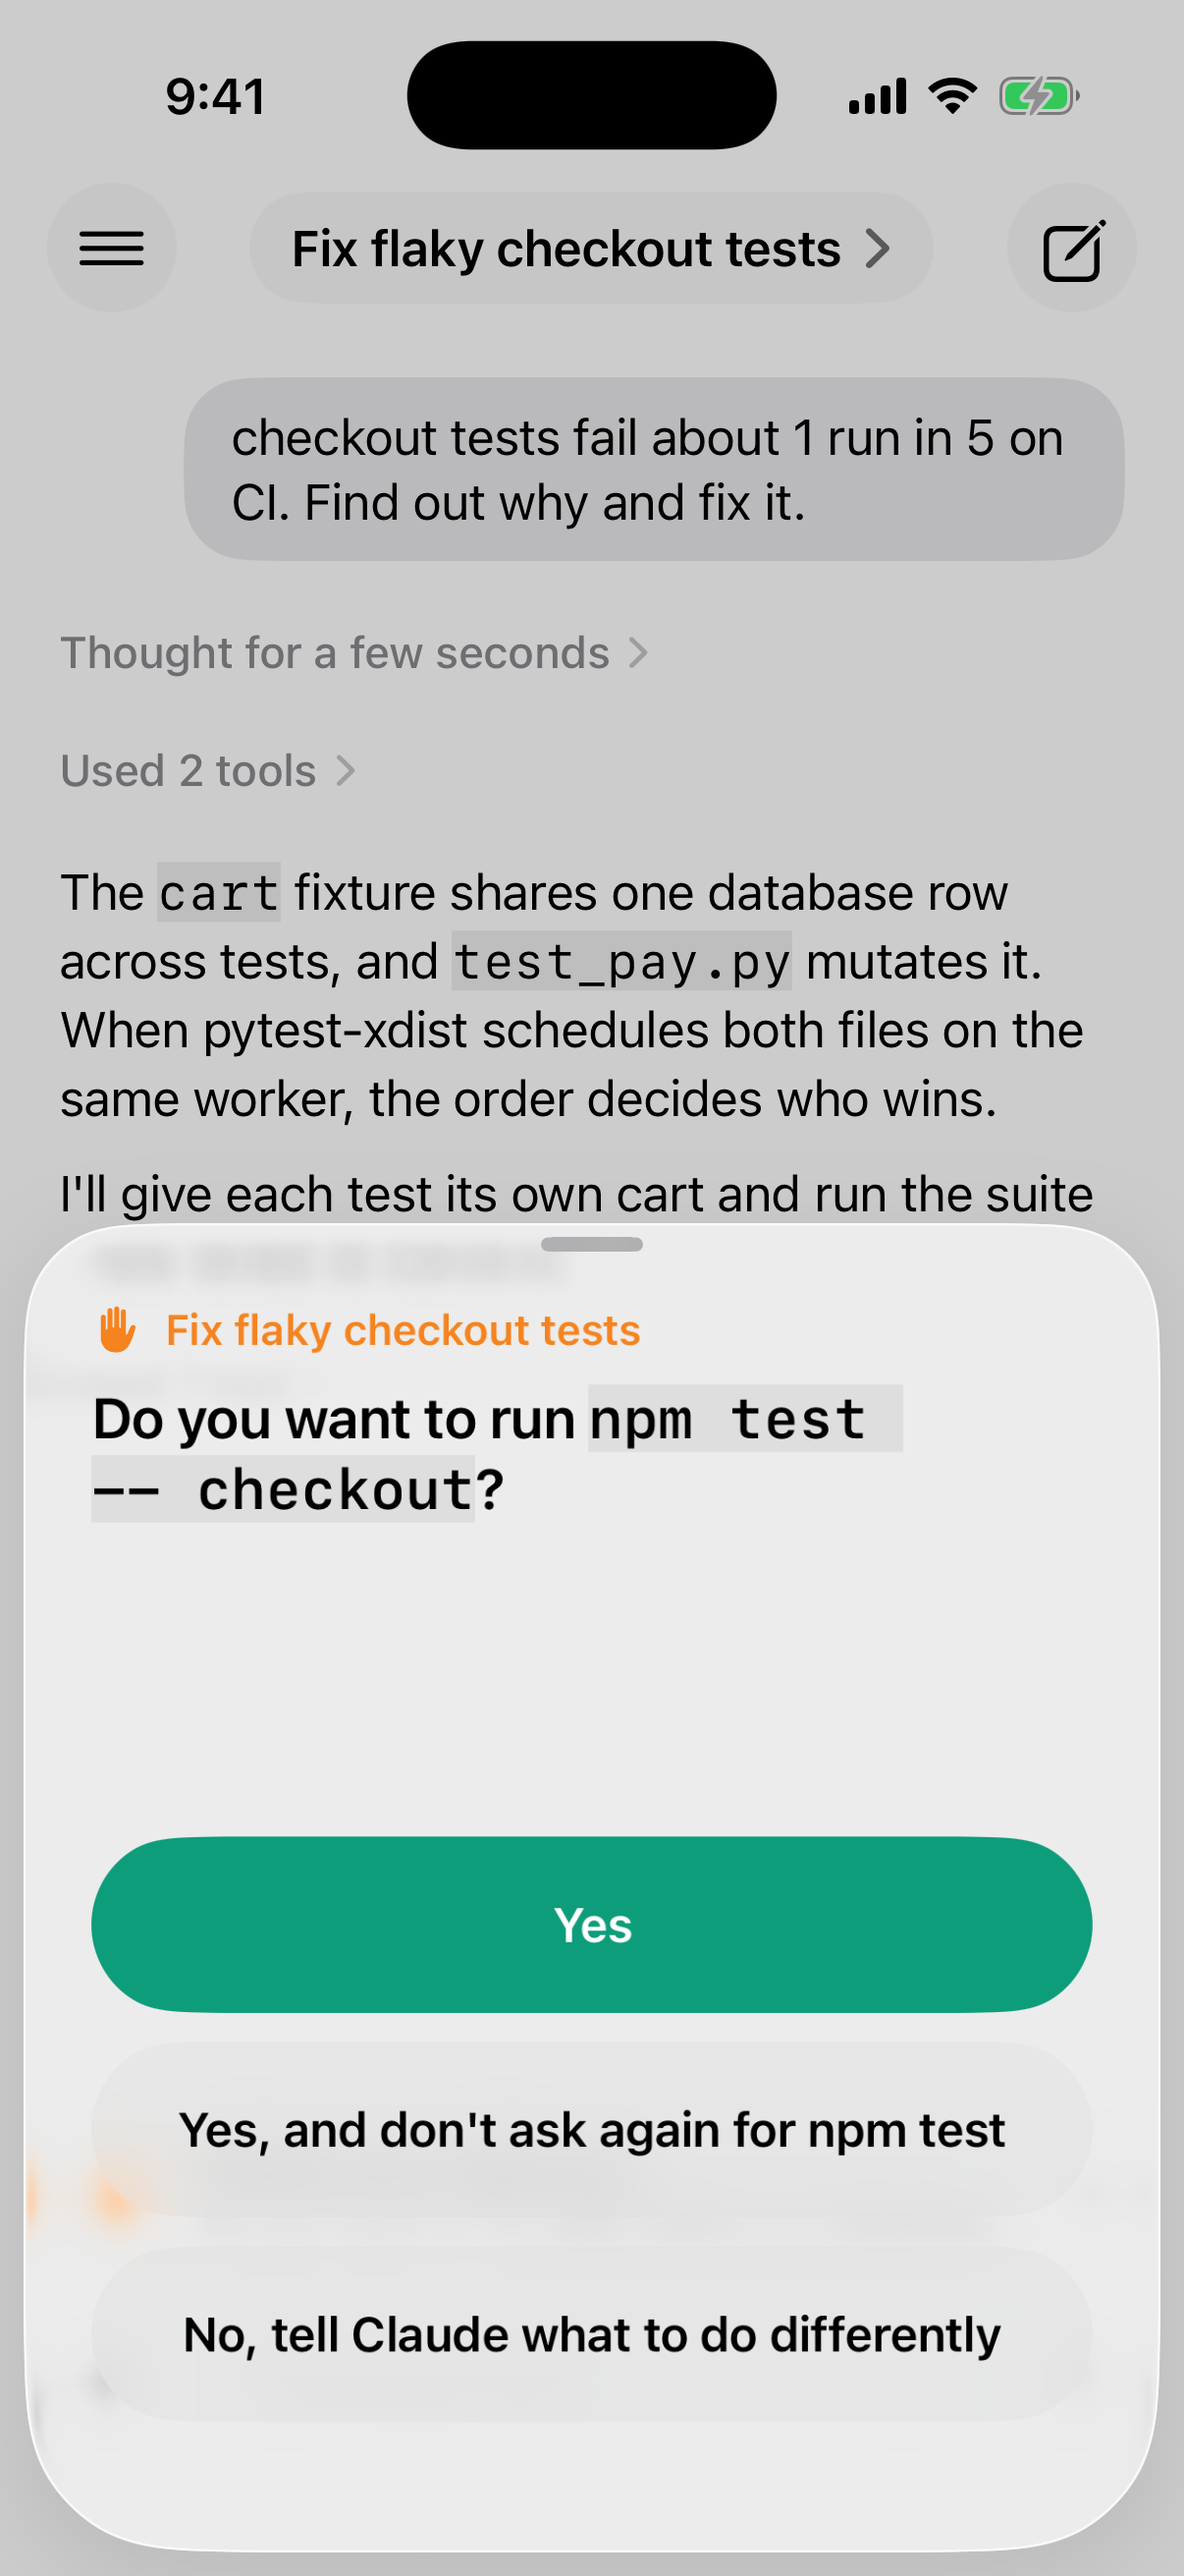
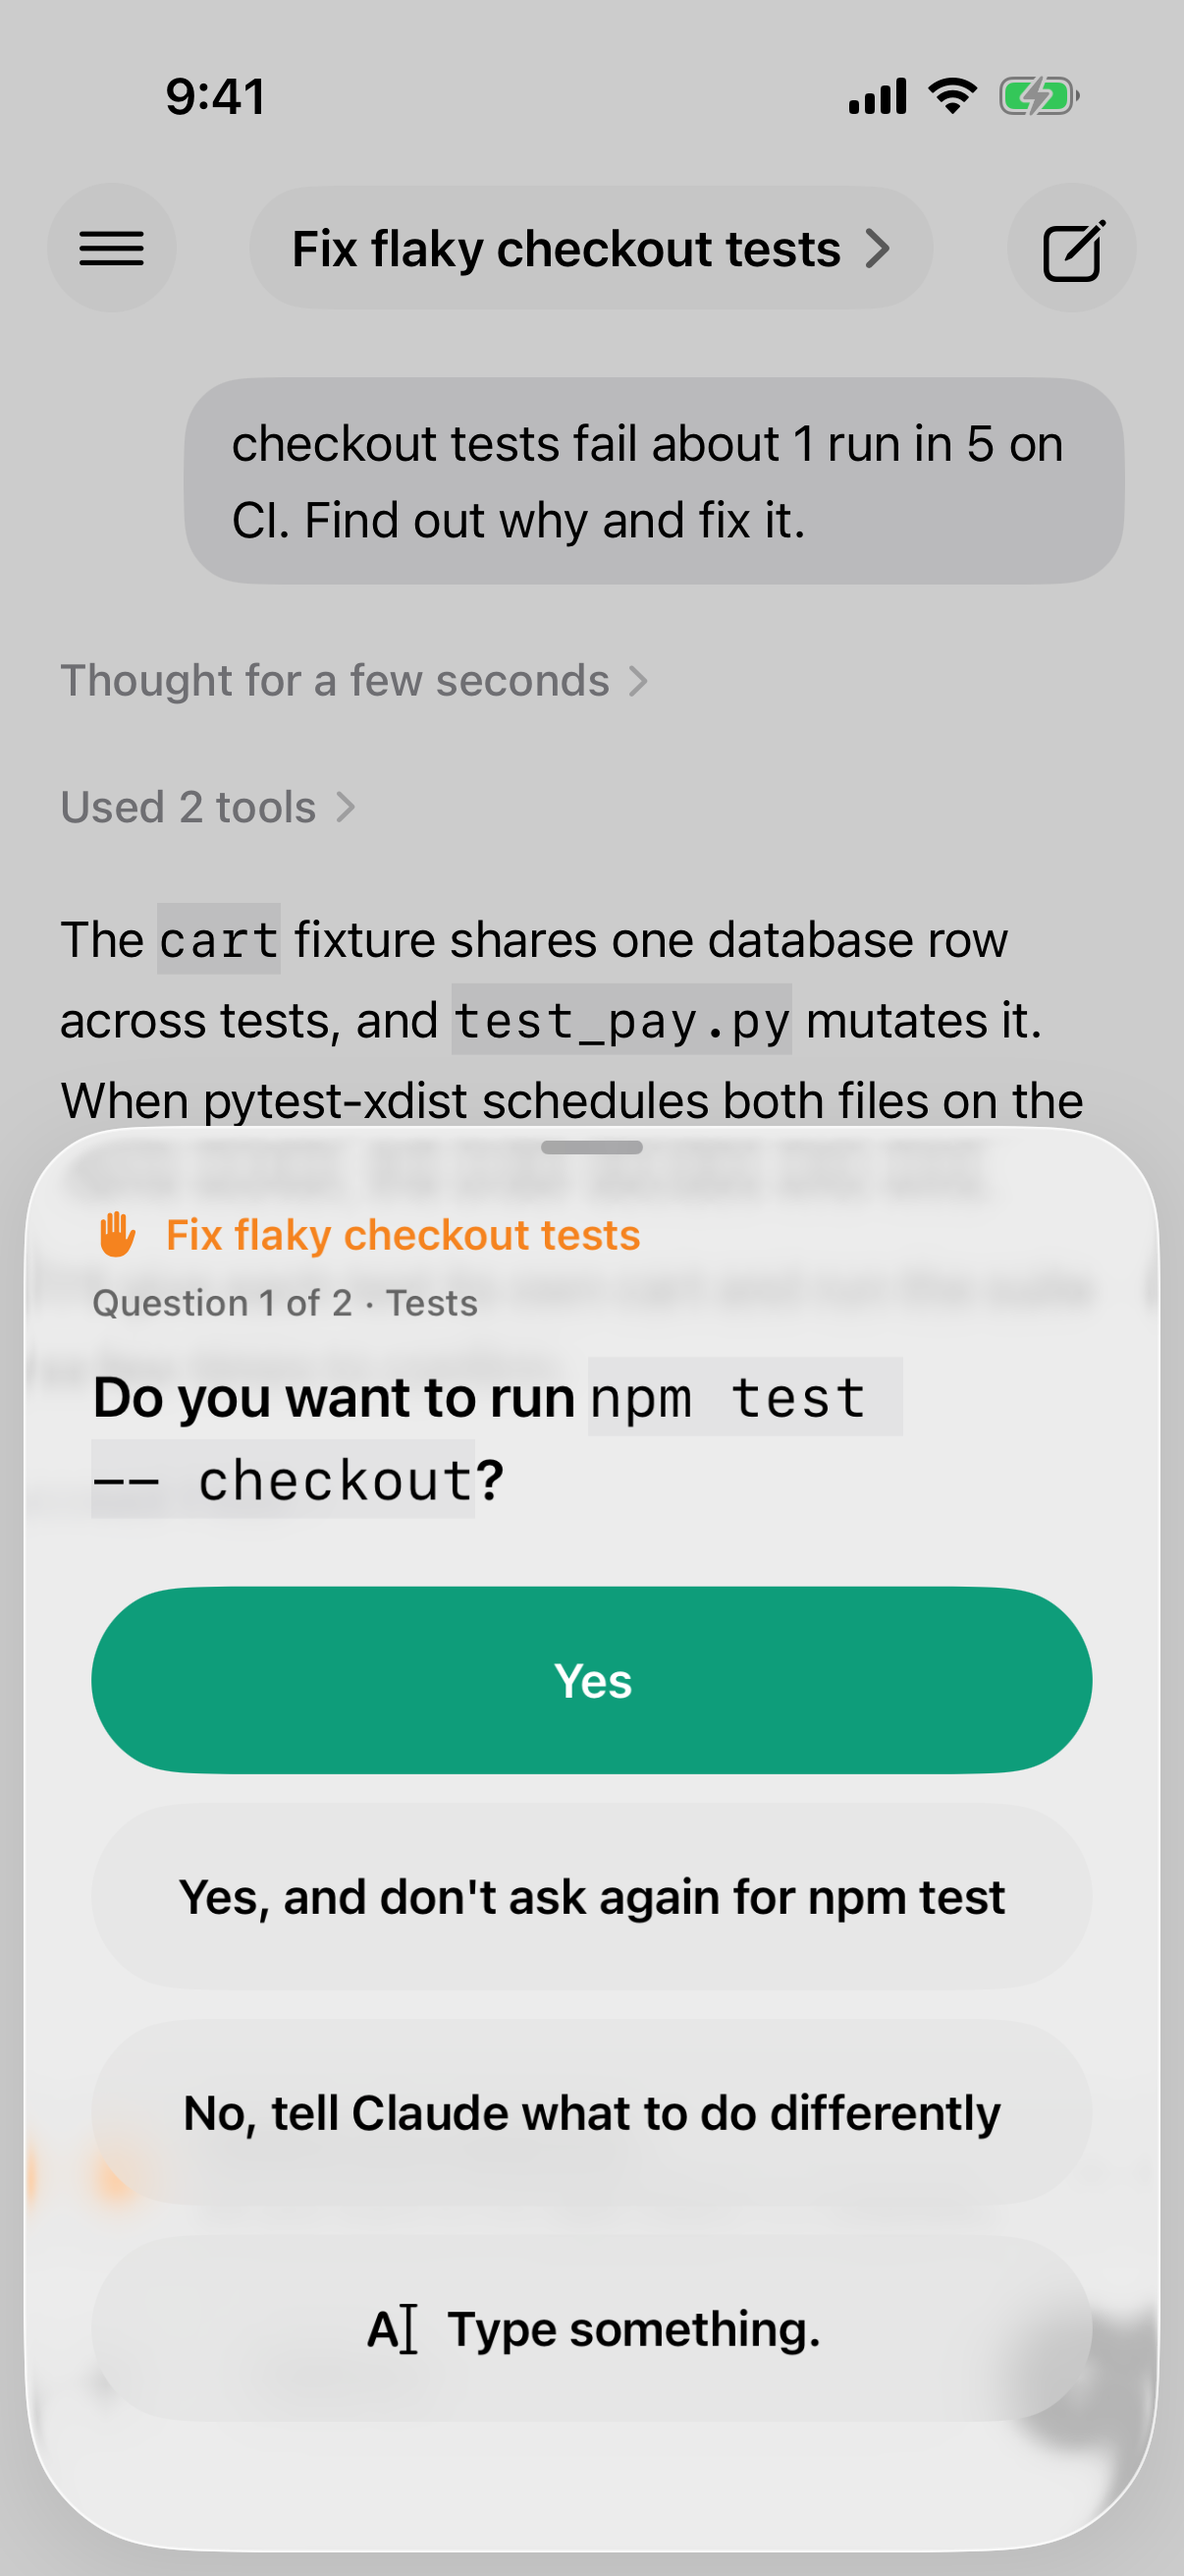
docs: iOS round 1 report and approval screenshots
Claude-Session: https://claude.ai/code/session_01Q4qo2QabVUAvi2YgczSwpD

diff --git a/docs/tasks/ios-report.md b/docs/tasks/ios-report.md
@@ -49,3 +49,47 @@
 5. WebSocket: does the bridge always send `hello` first? The app counts any frame as "connected". It also sends a ping every 15s; please make sure the server answers pings (Hummingbird does by default).
 6. `POST /agents` takes `name`, but the new-chat sheet doesn't expose it. Should it?
 7. Should `GET /agents` include agents with `status: unknown`? The app shows them without an indicator.
+
+## Round 1 (fixes-1.md, iOS items 1-4)
+
+### Fixed
+1. **Keyboard over the approval sheet.**
+   - The keyboard is dismissed whenever the sheet presents.
+   - The sheet sizes to its content with a `.height` detent measured from the content, so the gap above the buttons is gone.
+   - Inline code in the question is regular weight on a lighter fill.
+   - Screenshot: `approval-sheet.png`.
+2. **Chats opening scrolled up.** There were two causes.
+   - The transcript was a `LazyVStack`. Lazy rows are measured with estimates, so on long real transcripts the first bottom offset landed short. Reproduced on a real long chat. It's now an eager `VStack`, rendered only once messages have loaded, so the first layout already starts at the bottom. `MarkdownView` parses in `body`, so unchanged rows are skipped.
+   - "At bottom" was worked out from scroll geometry alone. A programmatic scroll animation passes through "not at bottom" offsets, and the approval card or keyboard growing the bottom inset mid-animation turned following off. Now only the user's own scrolling (scroll phase tracking, interacting or decelerating) changes `followsBottom`. Any change to content height or bottom inset re-pins while following.
+   - Earlier pages now load by scroll visibility and keep the position when prepended.
+   - The first launch shows a spinner instead of flashing "No agents running".
+3. **Step header.** `Approval.step` decodes as optional; the sheet shows "Question 2 of 3 · Time". Claude's final Submit tab (`index == count`, title `Submit`) is labelled "Review answers". Screenshots: `approval-step.png`, `approval-review.png`.
+4. **Free text.**
+   - A "Type something." option (`freeText: true`, or that exact label from older bridges) swaps the buttons for a text field.
+   - Send posts the option's `keys` (arrow moves, per herd-bridge), then `POST /agents/:id/text` with `submit: true`.
+   - Contract agreed with herd-bridge through `docs/api.md`: 155c21a from me, ef60451 from them.
+   - Screenshot: `approval-free-text.png`.
+
+### Tests
+- Unit tests: 25 pass. New ones cover:
+  - `step`/`freeText` decoding, plus the label fallback
+  - the store's free-text answer order (keys, then text, trimmed) against a recording fake backend
+  - a plain answer sending keys only
+- `MockUITests` (new, no bridge needed), all pass:
+  - a long, slow-loading chat opens at the bottom, including after switching agents in the sidebar
+  - the keyboard is gone when the sheet presents from the card, and the step header is shown
+  - a free-text answer reaches the (mock) agent
+- The mock never reproduced the lazy-stack bug, so the scroll test only guards against regressions. The live test catches the real thing.
+- `LiveE2ETests` against the restarted 7878 bridge on `w14:p2`, all 3 pass:
+  - opens with no "↓"
+  - keyboard hidden when the sheet appears
+  - no "↓" with the approval card up
+  - step headers "Question 1 of 3" / "Question 2 of 3" / "Review answers"
+  - new `testFreeTextAnswer`: types "Green", and the agent replies "Colour is Green"
+  - `tearDown` now sends Esc if the agent is left at a question, so one failure can't break the next test
+- The UI test classes are `@MainActor` with `async setUp`; the UI test target now builds with no Swift 6 warnings.
+
+### Notes and questions
+- I restarted the 7878 bridge from this session (`swift run -c release herd serve --local-only --port 7878`). It stops if this session's background job is killed.
+- `POST /prompt` can now return `409 agent_blocked`. The app shows the bridge's error message in the banner. The composer isn't disabled while blocked, because the card and sheet are the intended path.
+- After a stop, the transcript shows `[Request interrupted by user]` / `[Request interrupted by user for tool use]` as user bubbles. Should the bridge drop them, or turn them into a small "Stopped" marker? The app could also style them. Your call.
